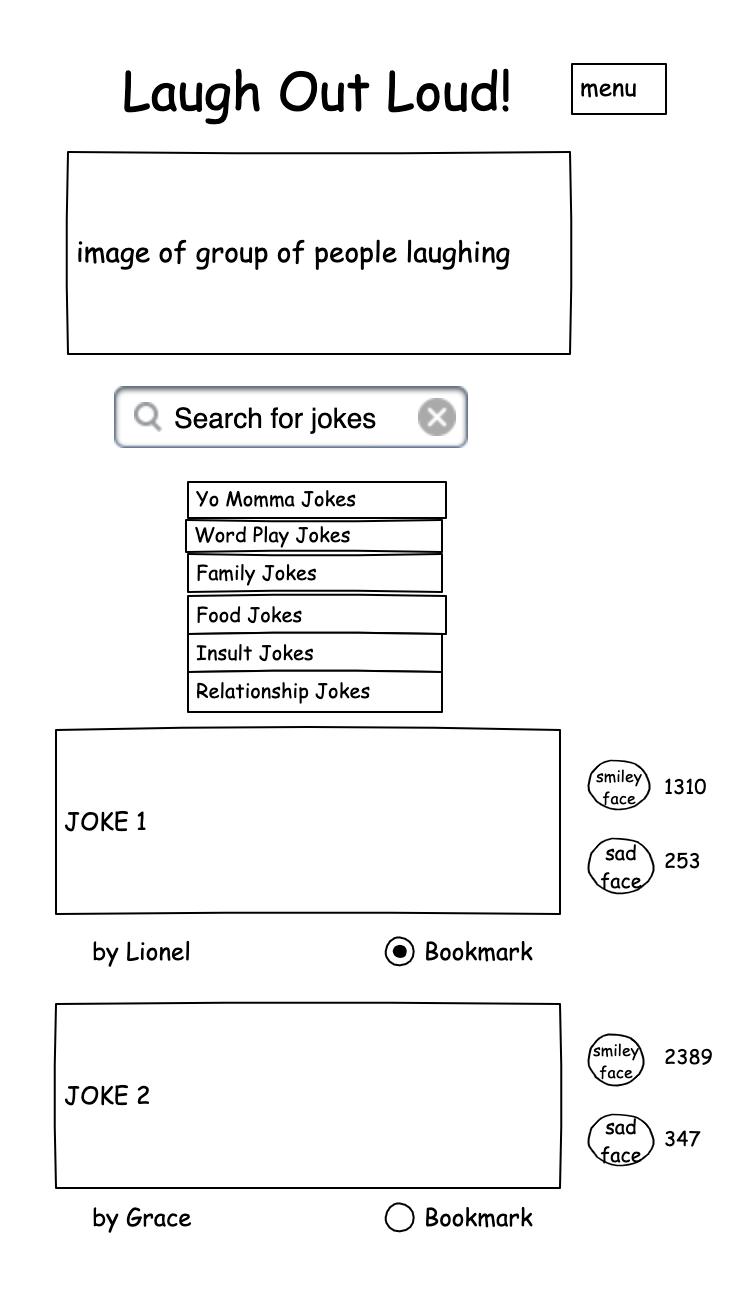
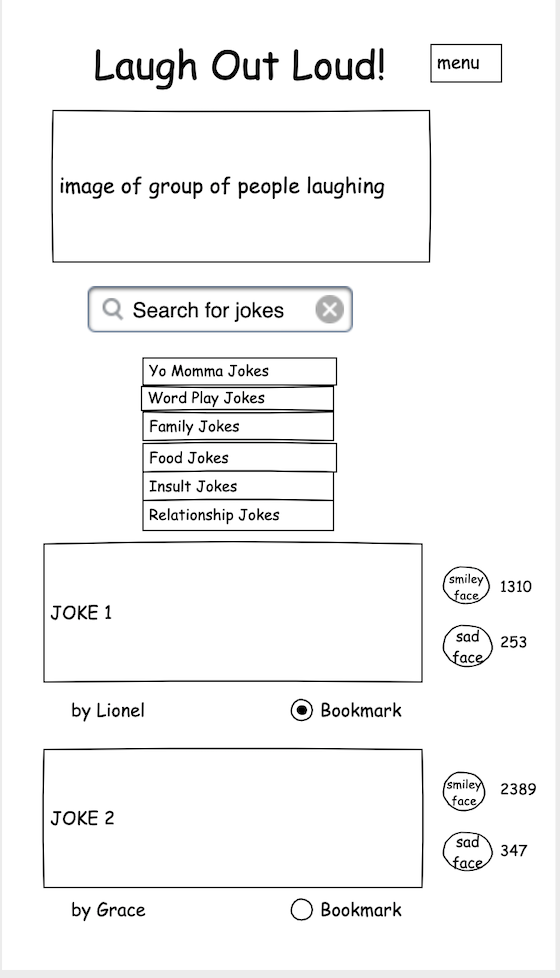
Added comments in app.py, updated readme files, changed hero image to smaller size

Changed region(s): [[0.0607, 0.0307, 0.9714, 0.9509], [0.7893, 0.5828, 0.9714, 0.7055]]

diff --git a/templates/add_joke.html b/templates/add_joke.html
@@ -28,7 +28,7 @@
         <!-- credit joke to -->
         <div class="row">
             <div class="input-field col s12">
-                <textarea id="created_by" name="created_by" minlength="5" maxlength="200"
+                <textarea id="created_by" name="created_by" minlength="5" maxlength="15"
                     class="materialize-textarea validate" required></textarea>
                 <label for="created_by">Created By: Name must be the same as logged in user to be able to edit this joke</label>
             </div>

diff --git a/templates/edit_joke.html b/templates/edit_joke.html
@@ -34,7 +34,7 @@
         <!-- credit joke to -->
         <div class="row">
             <div class="input-field col s12">
-                <textarea id="created_by" name="created_by" minlength="5" maxlength="200"
+                <textarea id="created_by" name="created_by" minlength="5" maxlength="15"
                     class="materialize-textarea validate" required>
                     {{- joke.created_by -}}
                 </textarea>

diff --git a/templates/base.html b/templates/base.html
@@ -60,7 +60,7 @@
                 <div class="col s12">
                     <div class="card">
                         <div class="card-image">
-                            <img class="responsive-img" src="/static/images/laughter01.jpg">
+                            <img class="responsive-img" src="/static/images/laughter1.jpg">
                         </div>
                     </div>
                 </div>

diff --git a/app.py b/app.py
@@ -18,7 +18,10 @@ app.secret_key = os.environ.get("SECRET_KEY")
 
 mongo = PyMongo(app)
 
-
+'''
+This function gets all the jokes from the database and renders them onto the homepage.
+If the user is signed in then their bookmarked jokes will also appear on the homepage
+'''
 @app.route("/")
 @app.route("/get_jokes")
 def get_jokes():
@@ -35,6 +38,10 @@ def get_jokes():
     return render_template("jokes.html", jokes=jokes)
 
 
+'''
+The coll_bookmarks function finds all the users bookmarked jokes 
+to display on the collections page.
+'''
 @app.route("/coll_bookmarks/<username>", methods=["GET", "POST"])
 def coll_bookmarks(username):
     # credit the following code to CI Tutor Johann
@@ -56,6 +63,11 @@ def coll_bookmarks(username):
         joke=joke)
 
 
+
+'''
+The search function searches through the jokes database matching the query keyword
+and renders the joke(s) onto the homepage.
+'''
 @app.route("/search", methods=["GET", "POST"])
 def search():
     query = request.form.get("query")
@@ -63,6 +75,9 @@ def search():
     return render_template("jokes.html", jokes=jokes)
 
 
+'''
+The like function
+'''
 @app.route("/like/<joke_id>", methods=["GET", "POST"])
 def like(joke_id):
     joke = mongo.db.jokes.find_one_and_update(
@@ -77,6 +92,9 @@ def dislike(joke_id):
     return redirect(url_for("get_jokes", joke=joke))
 
 
+'''
+The register function checks if the user already exists, if no, creates a new user for the database.
+'''
 @app.route("/register", methods=["GET", "POST"])
 def register():
     if request.method == "POST":
@@ -100,6 +118,11 @@ def register():
         flash("Registration Successful!")
         return redirect(url_for("get_jokes", username=session["user"]))
     return render_template("register.html")
+
+
+'''
+The login function checks if username exists and checks password.
+'''
 
 
 @app.route("/login", methods=["GET", "POST"])
@@ -130,6 +153,11 @@ def login():
     return render_template("login.html")
 
 
+'''
+The logout function removes user from session cookie.
+'''
+
+
 @app.route("/logout")
 def logout():
     # remove user from session cookie
@@ -138,43 +166,73 @@ def logout():
     return redirect(url_for("get_jokes"))
 
 
+'''
+The add joke function checks if the user is logged in,
+if not redirects to log in. If yes, they fill in the form
+and submits it to the database which then renders a 
+new joke onto the homepage.
+'''
+
+
 @app.route("/add_joke", methods=["GET", "POST"])
 def add_joke():
-    # submits form to database
-    if request.method == "POST":
-        joke = {
-            "category_name": request.form.get("category_name"),
-            "joke_description": request.form.get("joke_description"),
-            "created_by": request.form.get("created_by"),
-            "like": 0,
-            "dislike": 0
-        }
-        mongo.db.jokes.insert_one(joke)
-        flash("Joke Successfully Added")
-        return redirect(url_for("get_jokes"))
+    if "user" in session:
+        # submits form to database
+        if request.method == "POST":
+            joke = {
+                "category_name": request.form.get("category_name"),
+                "joke_description": request.form.get("joke_description"),
+                "like": 0,
+                "dislike": 0
+            }
 
-    categories = mongo.db.categories.find().sort("category_name", 1)
-    return render_template("add_joke.html", categories=categories)
+            mongo.db.jokes.insert_one(joke)
+            flash("Joke Successfully Added")
+            return redirect(url_for("get_jokes"))
+        categories = mongo.db.categories.find().sort("category_name", 1)
+        return render_template("add_joke.html", categories=categories)
+    # validate user is logged in
+    else:
+        flash("Please log in")
+        return redirect(url_for("login"))
+
+
+'''
+The edit joke function checks if the user is logged in, if no,
+redirects them to the log in page. If yes, user fills in the form
+and submits it to the database. The updated data is rendered onto
+edit joke page.
+'''
 
 
 @app.route("/edit_joke/<joke_id>", methods=["GET", "POST"])
 def edit_joke(joke_id):
-    # submits form to database
-    if request.method == "POST":
-        submit = {
-            "category_name": request.form.get("category_name"),
-            "joke_description": request.form.get("joke_description"),
-            "created_by": request.form.get("created_by"),
-            "like": 1,
-            "dislike": 0
-        }
+    if "user" in session:
+        # submits form to database
+        if request.method == "POST":
+            submit = {
+                "category_name": request.form.get("category_name"),
+                "joke_description": request.form.get("joke_description"),
+                "like": 1,
+                "dislike": 0
+            }
+            mongo.db.jokes.update({"_id": ObjectId(joke_id)}, submit)
+            flash("Joke Successfully Updated")
 
-        mongo.db.jokes.update({"_id": ObjectId(joke_id)}, submit)
-        flash("Joke Successfully Updated")
+        joke = mongo.db.jokes.find_one({"_id": ObjectId(joke_id)})
+        categories = mongo.db.categories.find().sort("category_name", 1)
+        return render_template(
+            "edit_joke.html", joke=joke, categories=categories)
 
-    joke = mongo.db.jokes.find_one({"_id": ObjectId(joke_id)})
-    categories = mongo.db.categories.find().sort("category_name", 1)
-    return render_template("edit_joke.html", joke=joke, categories=categories)
+    # validate user is logged in
+    else:
+        flash("Please log in")
+        return redirect(url_for("login"))
+
+
+'''
+The delete joke function removes the joke from the database.
+'''
 
 
 @app.route("/delete_joke/<joke_id>")
@@ -182,6 +240,13 @@ def delete_joke(joke_id):
     mongo.db.jokes.remove({"_id": ObjectId(joke_id)})
     flash("Joke Successfully Deleted")
     return redirect(url_for("get_jokes"))
+
+
+'''
+The add bookmark function finds and updates the user and pushes
+a new field users bookmark which stores all the jokes the user
+has bookmarked.
+'''
 
 
 @app.route("/add_bookmark/<joke_id>", methods=["GET", "POST"])
@@ -193,6 +258,12 @@ def add_bookmark(joke_id):
     return redirect(url_for("get_jokes"))
 
 
+'''
+The remove bookmark finds and updates the user and pulls the matching
+joke id from the users bookmark array.
+'''
+
+
 @app.route("/remove_bookmark/<joke_id>", methods=["GET", "POST"])
 def remove_bookmark(joke_id):
     mongo.db.users.find_one_and_update(
@@ -200,6 +271,13 @@ def remove_bookmark(joke_id):
         {"$pull": {"users_bookmark": ObjectId(joke_id)}})
     flash("Bookmark is Removed!")
     return redirect(url_for("get_jokes"))
+
+
+'''
+The family jokes function reads all the jokes from the family category.
+Reads the user, user bookmark and finds bookmarked jokes rendering them
+on the family jokes page.
+'''
 
 
 @app.route("/family_jokes")
@@ -224,6 +302,13 @@ def family_jokes():
     return render_template("family_jokes.html", jokes=jokes)
 
 
+'''
+The food jokes function reads all the jokes from the family category.
+Reads the user, user bookmark and finds bookmarked jokes rendering
+them on the food jokes page.
+'''
+
+
 @app.route("/food_jokes")
 def food_jokes():
     jokes = list(mongo.db.jokes.find({"category_name": "Food Jokes"}))
@@ -244,6 +329,13 @@ def food_jokes():
             joke=joke, jokes=jokes)
 
     return render_template("food_jokes.html", jokes=jokes)
+
+
+'''
+The insult jokes function reads all the jokes from the family category.
+Reads the user, user bookmark and finds bookmarked jokes rendering them
+on the insult jokes page.
+'''
 
 
 @app.route("/insult_jokes")
@@ -268,6 +360,13 @@ def insult_jokes():
     return render_template("insult_jokes.html", jokes=jokes)
 
 
+'''
+The word jokes function reads all the jokes from the family category.
+Reads the user, user bookmark and finds bookmarked jokes rendering
+them on the word play jokes page.
+'''
+
+
 @app.route("/word_jokes")
 def word_jokes():
     jokes = list(mongo.db.jokes.find({"category_name": "Word Play Jokes"}))
@@ -290,6 +389,13 @@ def word_jokes():
     return render_template("word_jokes.html", jokes=jokes)
 
 
+'''
+The relationship jokes function reads all the jokes from the family category.
+Reads the user, user bookmark and finds bookmarked jokes rendering them on
+the relationship jokes page.
+'''
+
+
 @app.route("/relationship_jokes")
 def relationship_jokes():
     jokes = list(mongo.db.jokes.find({"category_name": "Relationship Jokes"}))
@@ -310,6 +416,13 @@ def relationship_jokes():
             joke=joke, jokes=jokes)
 
     return render_template("relationship_jokes.html", jokes=jokes)
+
+
+'''
+The yo jokes function reads all the jokes from the family category.
+Reads the user, user bookmark and finds bookmarked jokes rendering
+them on the yo momma jokes page.
+'''
 
 
 @app.route("/yo_jokes")

diff --git a/TESTING.md b/TESTING.md
@@ -42,9 +42,14 @@ Used [PEP8](http://pep8online.com/).
 #### All Users
 
 - As a user, I want the website to be easy to understand and navigate.
-    - As the user can see from the homepage...
+    - As the user can see from the homepage everything is clearly described and labelled. 
+    - The fixed navbar on the top shows the tabs to the Home, Register and Log In pages.
+
 - As a user, I want the website to be clean and simple looking.
+    - The user can see that the layout is very simple, clean and spacious looking.
+
 - As a user, I want to be able to read jokes on the homepage.
+    - The user can scroll down and immediately see the joke cards
 - As a user, I want to be able to access different categories of jokes easily from the homepage.
 - As a user, I want to be able to search for jokes.
 - As a user, I want to be able to like and dislike each joke and see the number count.

diff --git a/README.md b/README.md
@@ -59,7 +59,7 @@ I used face emoji icons from ICONS8 as they were colourful for the like and disl
 Mali font family was used throughout the website as it gives a playful, humorous, light looking feel.
 
 ## Wireframes<hr>
-I used [Pencil](https://pencil.evolus.vn/) to create [wireframes](https://github.com/karzuin/jokes_library_MS3/wireframes) 
+I used [Pencil](https://pencil.evolus.vn/) to create [wireframes](https://github.com/karzuin/jokes_library_MS3/tree/master/wireframes) 
 in desktop, tablet and phone view.
 
 [Back to top](#table-of-contents)
